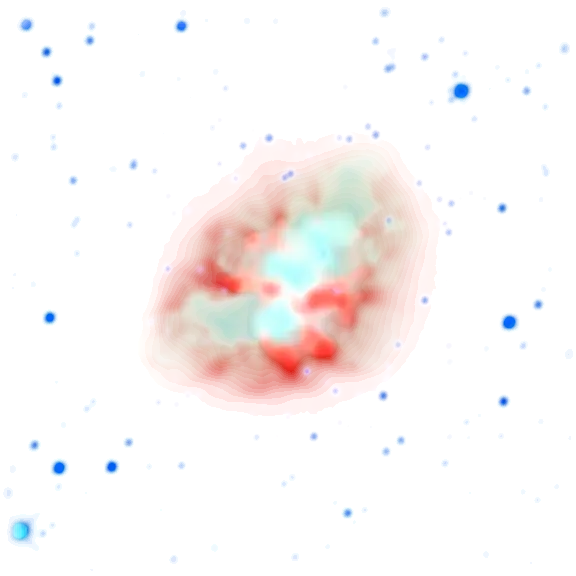
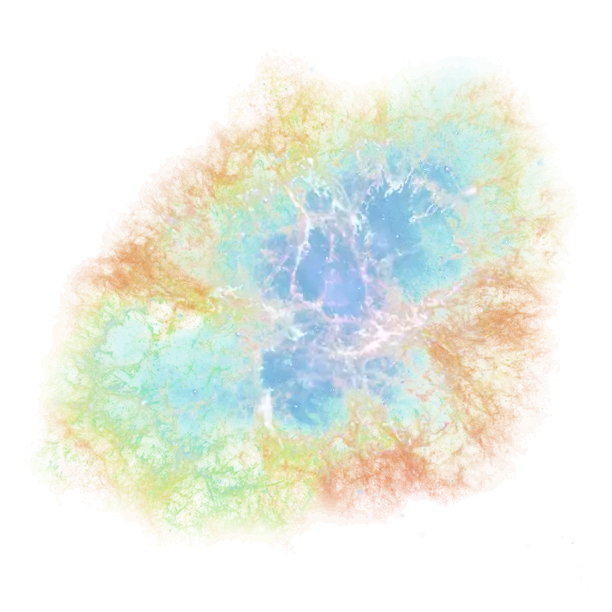
feat(m1): NASA picture of the Crab (MODULES-793)
The wide picture of M1 was WISE and soft. It is now NASA's Hubble mosaic of the whole nebula (PIA03606). Public domain: NASA content is not subject to copyright in the United States. The ESA copy stays as the finer picture.

diff --git a/test/deep-sky-pictures.test.ts b/test/deep-sky-pictures.test.ts
@@ -11,10 +11,10 @@ const root = new URL("../", import.meta.url);
 const NATURAL = new Set(["NSF NOIRLab", "ESO"]);
 const natural = JSON.parse(readFileSync(new URL("scripts/natural-pictures.json", root), "utf8")) as Record<string, NaturalEntry>;
 interface NaturalEntry {
-  placement: "fit" | "shift" | "avm";
+  placement: "fit" | "shift" | "avm" | "stated";
   matched?: number;
   rmsArcsec?: number;
-  agree: { inside: number; near: number; medianPixels: number | null };
+  agree: { inside: number; near: number; medianPixels: number | null } | null;
   avmShiftArcsec: number;
   wcsCorners: Array<[number, number]>;
   galaxy?: { centreOffsetArcmin: number; measuredPositionAngle: number | null; cataloguePositionAngle: number | null };
@@ -133,7 +133,7 @@ test("NOTICE.md records every picture file with its survey, address, credit, lic
 
 test("the sources are all ones whose terms allow it, and none is one the package refuses", () => {
   const sources = new Set(deepSkyPictures().map((p) => p.source.name));
-  for (const name of sources) assert.ok(["SDSS g, r, i", "2MASS J, H, K", "WISE 3.4, 4.6, 12 micron", "ESA/Hubble", "NSF NOIRLab", "ESO"].includes(name), `${name} is a listed source`);
+  for (const name of sources) assert.ok(["SDSS g, r, i", "2MASS J, H, K", "WISE 3.4, 4.6, 12 micron", "ESA/Hubble", "NSF NOIRLab", "ESO", "NASA Hubble"].includes(name), `${name} is a listed source`);
   for (const picture of deepSkyPictures()) {
     assert.match(picture.source.licence, /CC BY|government work|public domain/i);
     assert.doesNotMatch(picture.source.licence, /\bSA\b|ShareAlike|\bNC\b|NonCommercial|non-commercial|all rights reserved/i, `${picture.id}: only licences an MIT package can pass on`);
@@ -181,13 +181,13 @@ test("the demo leaves out the pictures that look broken, and draws no finer pict
 const NATURAL_IDS = Object.keys(natural);
 const arcsecBetween = (a: { rightAscension: number; declination: number }, b: { rightAscension: number; declination: number }): number => separation(a, b) * 3600;
 
-test("the natural-colour pictures are an observatory's own, under CC BY, each recorded with its credit, and replace the false-colour picture of the object where they are its widest", () => {
+test("the natural-colour pictures are an observatory's own, under CC BY or NASA's public domain, each recorded with its credit, and replace the false-colour picture of the object where they are its widest", () => {
   assert.ok(NATURAL_IDS.length >= 15, `${NATURAL_IDS.length} natural pictures`);
   for (const id of NATURAL_IDS) {
     const picture = deepSkyPictures().find((p) => p.id === id);
     assert.ok(picture !== undefined, `${id} is in the index`);
-    assert.ok(["NSF NOIRLab", "ESO", "ESA/Hubble"].includes(picture.source.name));
-    assert.match(picture.source.licence, /CC BY 4\.0/);
+    assert.ok(["NSF NOIRLab", "ESO", "ESA/Hubble", "NASA Hubble"].includes(picture.source.name));
+    assert.match(picture.source.licence, picture.source.name === "NASA Hubble" ? /public domain/i : /CC BY 4\.0/);
     assert.ok(picture.address.startsWith("https://"), `${id}: its page`);
     if (picture.id === picture.object) assert.ok(!/WISE|2MASS/.test(picture.source.name), `${id}: no infrared picture is the widest view of it`);
   }
@@ -215,8 +215,11 @@ test("a natural-colour picture lies where the photograph's stars say: the index 
       assert.ok(entry.matched! >= 3, `${id}: ${entry.matched} stars matched`);
       assert.ok(entry.rmsArcsec! < 1.5, `${id}: the residual is ${entry.rmsArcsec} arc-seconds`);
       assert.ok(entry.avmShiftArcsec < 6, `${id}: the shift from the release's own tags is ${entry.avmShiftArcsec} arc-seconds`);
-      assert.ok(entry.agree.near >= 0.6 * entry.agree.inside, `${id}: ${entry.agree.near} of ${entry.agree.inside} of our stars are on a star of the picture`);
-    } else if (entry.agree.inside >= 5) {
+      assert.ok(entry.agree!.near >= 0.6 * entry.agree!.inside, `${id}: ${entry.agree!.near} of ${entry.agree!.inside} of our stars are on a star of the picture`);
+    } else if (entry.placement === "stated") {
+      // NASA's JPEG of the Crab carries no sky tags. It is the same mosaic as the finer picture, matched at the same orientation, so the centre and the turn are that picture's.
+      assert.equal(id, "M1");
+    } else if (entry.agree !== null && entry.agree.inside >= 5) {
       // the release's own position, checked against the stars there are
       assert.ok(entry.agree.near >= 0.6 * entry.agree.inside && entry.agree.medianPixels! <= 3, `${id}: ${entry.agree.near} of ${entry.agree.inside} of our stars are on a star of the picture`);
     } else unverified.push(id);

diff --git a/src/data/deep-sky-pictures.ts b/src/data/deep-sky-pictures.ts
@@ -10,11 +10,12 @@ export const PICTURE_SOURCES = [
   { name: "WISE 3.4, 4.6, 12 micron", colour: "mid-infrared, false colour (3.4, 4.6 and 12 micron as blue, green, red), stretched", credit: "Wide-field Infrared Survey Explorer (UCLA and JPL/Caltech, NASA), images from NASA's SkyView", licence: "public domain (SkyView's survey page: WISE data is in the public domain); the survey asks for its acknowledgement, which NOTICE.md gives", page: "https://skyview.gsfc.nasa.gov/current/cgi/moreinfo.pl?survey=WISE+3.4" },
   { name: "ESA/Hubble", colour: "visible and near-infrared light in colour, as ESA/Hubble released it, resized, with the black of the sky and of the edges made clear", credit: "ESA/Hubble (the credit line of each release is given with its picture)", licence: "CC BY 4.0 (Creative Commons Attribution 4.0 International), the licence ESA/Hubble gives its images on https://esahubble.org/copyright/", page: "https://esahubble.org/copyright/" },
   { name: "NSF NOIRLab", colour: "true colour from several filters, as NOIRLab released it, resized, with the black of the sky and of the edges made clear", credit: "NOIRLab/NSF/AURA (the credit line of each image is given with its picture)", licence: "CC BY 4.0 (Creative Commons Attribution 4.0 International), the licence NSF NOIRLab gives its images on https://noirlab.edu/public/copyright/", page: "https://noirlab.edu/public/copyright/" },
-  { name: "ESO", colour: "true colour from several filters, as ESO released it, resized, with the black of the sky and of the edges made clear", credit: "ESO (the credit line of each image is given with its picture)", licence: "CC BY 4.0 (Creative Commons Attribution 4.0 International), the licence ESO gives its images on https://www.eso.org/public/outreach/copyright/", page: "https://www.eso.org/public/outreach/copyright/" }
+  { name: "ESO", colour: "true colour from several filters, as ESO released it, resized, with the black of the sky and of the edges made clear", credit: "ESO (the credit line of each image is given with its picture)", licence: "CC BY 4.0 (Creative Commons Attribution 4.0 International), the licence ESO gives its images on https://www.eso.org/public/outreach/copyright/", page: "https://www.eso.org/public/outreach/copyright/" },
+  { name: "NASA Hubble", colour: "visible light in colour, as NASA released it, resized, with the black of the sky and of the edges made clear", credit: "NASA/ESA/JPL/Arizona State University", licence: "public domain (NASA content is not subject to copyright in the United States; NASA Images and Media Usage Guidelines, https://www.nasa.gov/nasa-brand-center/images-and-media/). The photojournal page does not mark this image as third-party copyright", page: "https://www.nasa.gov/nasa-brand-center/images-and-media/" }
 ] as const;
 
 /** One picture a line: the survey pictures first, then the finer pictures. */
-export const PICTURE_ROWS = `M1|M1|8363310|2201450|576|576|138|0|2|https://skyview.gsfc.nasa.gov/current/cgi/runquery.pl?Survey=WISE+3.4&Position=83.63310%2C22.01450&Size=0.22000&Pixels=576&Projection=Tan&Coordinates=J2000&Sampler=Clip&Return=FITS|
+export const PICTURE_ROWS = `M1|M1|8363560|2201530|612|612|63|0|6|https://science.nasa.gov/photojournal/most-detailed-image-of-the-crab-nebula/|NASA/ESA/JPL/Arizona State University
 M2|M2|32336260|-82320|432|432|349|0|1|https://skyview.gsfc.nasa.gov/current/cgi/runquery.pl?Survey=2MASS-J&Position=323.36260%2C-0.82320&Size=0.41833&Pixels=720&Projection=Tan&Coordinates=J2000&Sampler=Clip&Return=FITS|
 M3|M3|20554920|2838010|720|720|252|0|0|https://skyview.gsfc.nasa.gov/current/cgi/runquery.pl?Survey=SDSSg&Position=205.54920%2C28.38010&Size=0.50333&Pixels=720&Projection=Tan&Coordinates=J2000&Sampler=Clip&Return=FITS|
 M4|M4|24589680|-2652580|612|612|463|0|1|https://skyview.gsfc.nasa.gov/current/cgi/runquery.pl?Survey=2MASS-J&Position=245.89680%2C-26.52580&Size=0.78667&Pixels=720&Projection=Tan&Coordinates=J2000&Sampler=Clip&Return=FITS|

diff --git a/scripts/make-natural-pictures.py b/scripts/make-natural-pictures.py
@@ -6,6 +6,7 @@ Where make-deep-sky-pictures.py cuts false-colour survey pictures out of NASA's 
 - NSF NOIRLab (https://noirlab.edu/public/copyright/): "Unless specifically noted ... licensed under a Creative Commons Attribution 4.0 International License".
 - ESO (https://www.eso.org/public/outreach/copyright/): the same, with the credit line kept and any change said.
 - ESA/Hubble (https://esahubble.org/copyright/): Creative Commons Attribution 4.0.
+- NASA (https://www.nasa.gov/nasa-brand-center/images-and-media/): NASA content is not subject to copyright in the United States. A picture taken from a NASA page uses that page's file, and only when the page does not mark it as someone else's copyright.
 Never CC BY-SA, never non-commercial, never "all rights reserved". Each page of an image is read for its credit when the picture is made, and the licence page for the sentence; NOTICE.md records both with the day.
 
 Where a picture lies is found twice. The release carries its own Astronomy Visualization Metadata (AVM): a tangent-plane position, scale and turn. That is the prior. The placement used is then our own fit: the stars in
@@ -77,6 +78,17 @@ SITES = {
             "page": "https://www.eso.org/public/outreach/copyright/",
         },
     },
+    "nasa": {
+        "page": "https://science.nasa.gov/photojournal/most-detailed-image-of-the-crab-nebula/",
+        "file": "https://assets.science.nasa.gov/content/dam/science/psd/photojournal/pia/pia03/pia03606/PIA03606.jpg",
+        "source": {
+            "name": "NASA Hubble",
+            "colour": "visible light in colour, as NASA released it, resized, with the black of the sky and of the edges made clear",
+            "credit": "NASA/ESA/JPL/Arizona State University",
+            "licence": "public domain (NASA content is not subject to copyright in the United States; NASA Images and Media Usage Guidelines, https://www.nasa.gov/nasa-brand-center/images-and-media/). The photojournal page does not mark this image as third-party copyright",
+            "page": "https://www.nasa.gov/nasa-brand-center/images-and-media/",
+        },
+    },
     "hubble": {
         "page": "https://esahubble.org/images/{id}/",
         "file": "https://cdn.esahubble.org/archives/images/{variant}/{id}.jpg",
@@ -109,6 +121,10 @@ PICTURES = [
     {"id": "NGC 1316", "site": "eso", "image": "eso0024a", "long": 640},
     {"id": "NGC 5139", "site": "eso", "image": "eso1119b", "long": 800},
     {"id": "M101", "site": "hubble", "image": "heic0602a", "long": 900, "finer": True, "galaxy": True},
+    # PIA03606 is the whole Crab, the same mosaic as the finer Hubble picture already placed. Its JPEG has no sky tags.
+    # The two match at the same orientation (correlation 0.86), so the centre and the turn are that picture's and the scale is its scale times the pixel ratio.
+    {"id": "M1", "site": "nasa", "image": "PIA03606", "long": 720, "oval": False, "sky": 0,
+     "stated": {"credit": "NASA/ESA/JPL/Arizona State University", "ra": 83.63553, "dec": 22.01524, "scale": 0.59 * 653 / 3864, "rotation": 0}},
 ]
 
 
@@ -500,7 +516,27 @@ def object_table():
 def make(spec, objects, cache):
     site = SITES[spec["site"]]
     page_address = site["page"].format(id=spec["image"])
-    file_address = site["file"].format(id=spec["image"], variant=spec.get("variant", "screen"))
+    file_address = site["file"].format(id=spec.get("image"), variant=spec.get("variant", "screen")) if spec["site"] != "nasa" else site["file"]
+    if spec.get("stated"):
+        stated = spec["stated"]
+        jpeg = get(file_address, cache)
+        credit = stated["credit"]
+        image = Image.open(io.BytesIO(jpeg)).convert("RGB")
+        width, height = image.size
+        placement = Placement(stated["ra"], stated["dec"], (width - 1) / 2, (height - 1) / 2, stated["scale"], stated["rotation"], width, height)
+        numbers = {"placement": "stated", "matched": 0, "detected": 0, "catalogue": 0, "rmsPixels": 0.0, "rmsArcsec": 0.0, "agree": None,
+                   "avmShiftArcsec": 0.0, "avmScale": placement.scale, "fitScale": placement.scale, "avmRotation": placement.rotation, "fitRotation": placement.rotation}
+        obj = objects[spec["id"]]
+        box = (0, 0, width, height)
+        crop = image
+        cw, ch = crop.size
+        factor = spec["long"] / max(cw, ch)
+        size = (max(64, round(cw * factor)), max(64, round(ch * factor)))
+        small = crop.resize(size, Image.LANCZOS)
+        rgb = np.asarray(small, dtype=np.float64) / 255
+        rgba = to_rgba(rgb, sky_percent=spec.get("sky", 15), oval=spec.get("oval", True))
+        cut = Placement(placement.ra0, placement.dec0, placement.cx * factor, placement.cy * factor, placement.scale / factor, placement.rotation, size[0], size[1])
+        return {"spec": spec, "fresh": file_address in FETCHED, "credit": credit, "numbers": numbers, "rgb": rgb, "image": rgba, "cut": cut, "address": page_address, "box": box, "size": (cw, ch), "object": obj}
     page_text = get(page_address, cache, binary=False)
     page_credit = credit_of(spec["site"], page_text)
     jpeg = get(file_address, cache)

diff --git a/NOTICE.md b/NOTICE.md
@@ -288,7 +288,7 @@ SELECT ?item ?id ?date ?prec WHERE {
 <!-- pictures:begin -->
 | file | object | survey and bands | address | credit | licence | read |
 | --- | --- | --- | --- | --- | --- | --- |
-| pictures/M1.webp | M1 | WISE 3.4, 4.6, 12 micron | https://skyview.gsfc.nasa.gov/current/cgi/runquery.pl?Survey=WISE+3.4&Position=83.63310%2C22.01450&Size=0.22000&Pixels=576&Projection=Tan&Coordinates=J2000&Sampler=Clip&Return=FITS | Wide-field Infrared Survey Explorer (UCLA and JPL/Caltech, NASA), images from NASA's SkyView | public domain (SkyView's survey page: WISE data is in the public domain); the survey asks for its acknowledgement, which NOTICE.md gives | 2026-11-09 |
+| pictures/M1.webp | M1 | NASA Hubble | https://science.nasa.gov/photojournal/most-detailed-image-of-the-crab-nebula/ | NASA/ESA/JPL/Arizona State University | public domain (NASA content is not subject to copyright in the United States; NASA Images and Media Usage Guidelines, https://www.nasa.gov/nasa-brand-center/images-and-media/). The photojournal page does not mark this image as third-party copyright | 2026-11-23 |
 | pictures/M2.webp | M2 | 2MASS J, H, K | https://skyview.gsfc.nasa.gov/current/cgi/runquery.pl?Survey=2MASS-J&Position=323.36260%2C-0.82320&Size=0.41833&Pixels=720&Projection=Tan&Coordinates=J2000&Sampler=Clip&Return=FITS | Two Micron All Sky Survey (University of Massachusetts and IPAC/Caltech, NASA and NSF), images from NASA's SkyView | a US government work; the survey asks for its acknowledgement, which NOTICE.md gives | 2026-11-09 |
 | pictures/M3.webp | M3 | SDSS g, r, i | https://skyview.gsfc.nasa.gov/current/cgi/runquery.pl?Survey=SDSSg&Position=205.54920%2C28.38010&Size=0.50333&Pixels=720&Projection=Tan&Coordinates=J2000&Sampler=Clip&Return=FITS | Sloan Digital Sky Survey, images from NASA's SkyView | CC BY (Creative Commons Attribution), per the SDSS Image Use Policy; SkyView's survey page states the licence | 2026-11-09 |
 | pictures/M4.webp | M4 | 2MASS J, H, K | https://skyview.gsfc.nasa.gov/current/cgi/runquery.pl?Survey=2MASS-J&Position=245.89680%2C-26.52580&Size=0.78667&Pixels=720&Projection=Tan&Coordinates=J2000&Sampler=Clip&Return=FITS | Two Micron All Sky Survey (University of Massachusetts and IPAC/Caltech, NASA and NSF), images from NASA's SkyView | a US government work; the survey asks for its acknowledgement, which NOTICE.md gives | 2026-11-09 |

diff --git a/CHANGELOG.md b/CHANGELOG.md
@@ -2,6 +2,8 @@
 
 ## [Unreleased]
 
+- **A sharper picture of the Crab Nebula** (MODULES-793). The wide picture of M1 was WISE, soft at a few arc-seconds a pixel. It is now NASA's Hubble mosaic of the whole nebula (PIA03606, public domain: NASA content is not subject to copyright in the United States), 0.63 arc-seconds a pixel, the black sky made clear. The ESA/Hubble copy of the same mosaic stays as the finer picture laid over it. Credit NASA/ESA/JPL/Arizona State University, in NOTICE.md.
+
 ## [0.61.0] - 2026-11-23
 
 - **A Nearby stars layer on the sky chart** (MODULES-1666). The demo's chart and the embed page have a new layer, off by default (`layers=...,nearby`): from a zoom of 4, each nearby star in view is a ring in the nearby colour with its own dot and, when names are on, its name. The table is fetched when the layer is first switched on. It sits beside the Faint stars layer and never draws a star twice: of the 5,593 nearby stars, 2,135 are also in the faint tiles, and while the faint layer draws one the nearby layer adds only its ring. New: `chart()` takes `nearby` (`NearbyMark`) and returns `Chart.nearby`; `LAYERS` gains `nearby`; `NEARBY_FROM_ZOOM`. The sky seen from another star, the distance bands and `<hoshi-chart>` (which does not load the table) do not draw it. Tests: `test/nearby-layer.test.ts`.
